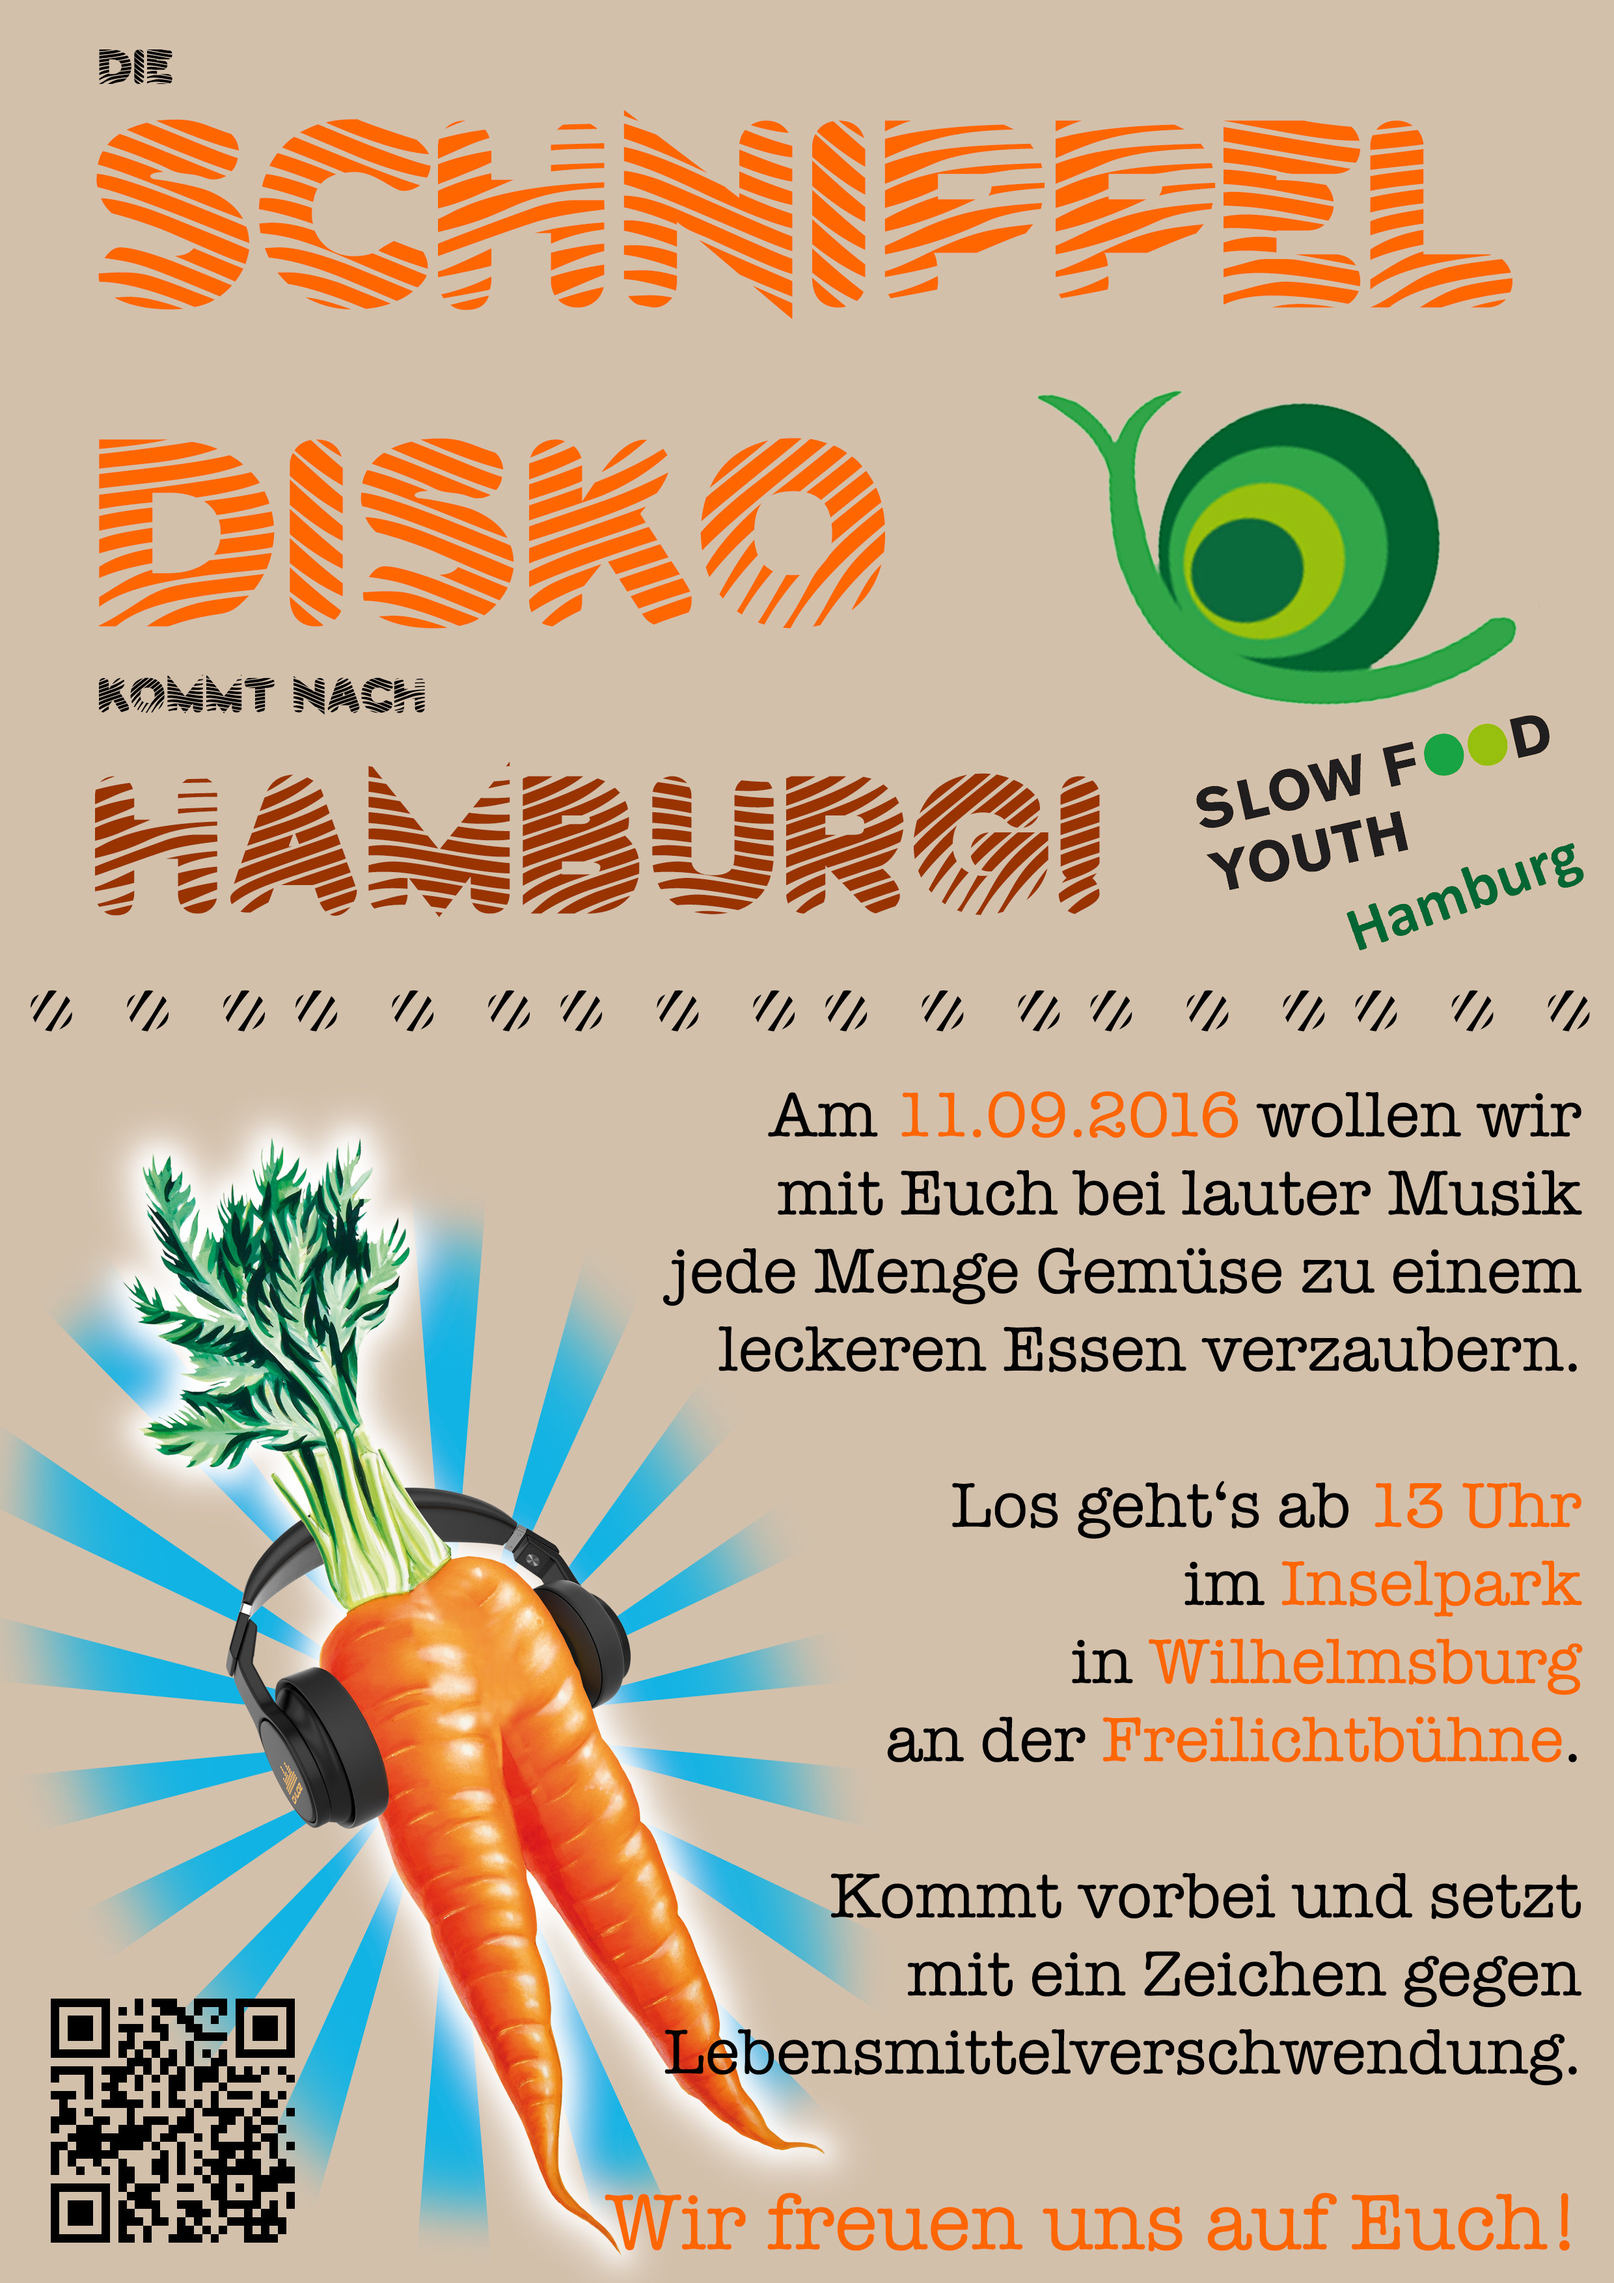
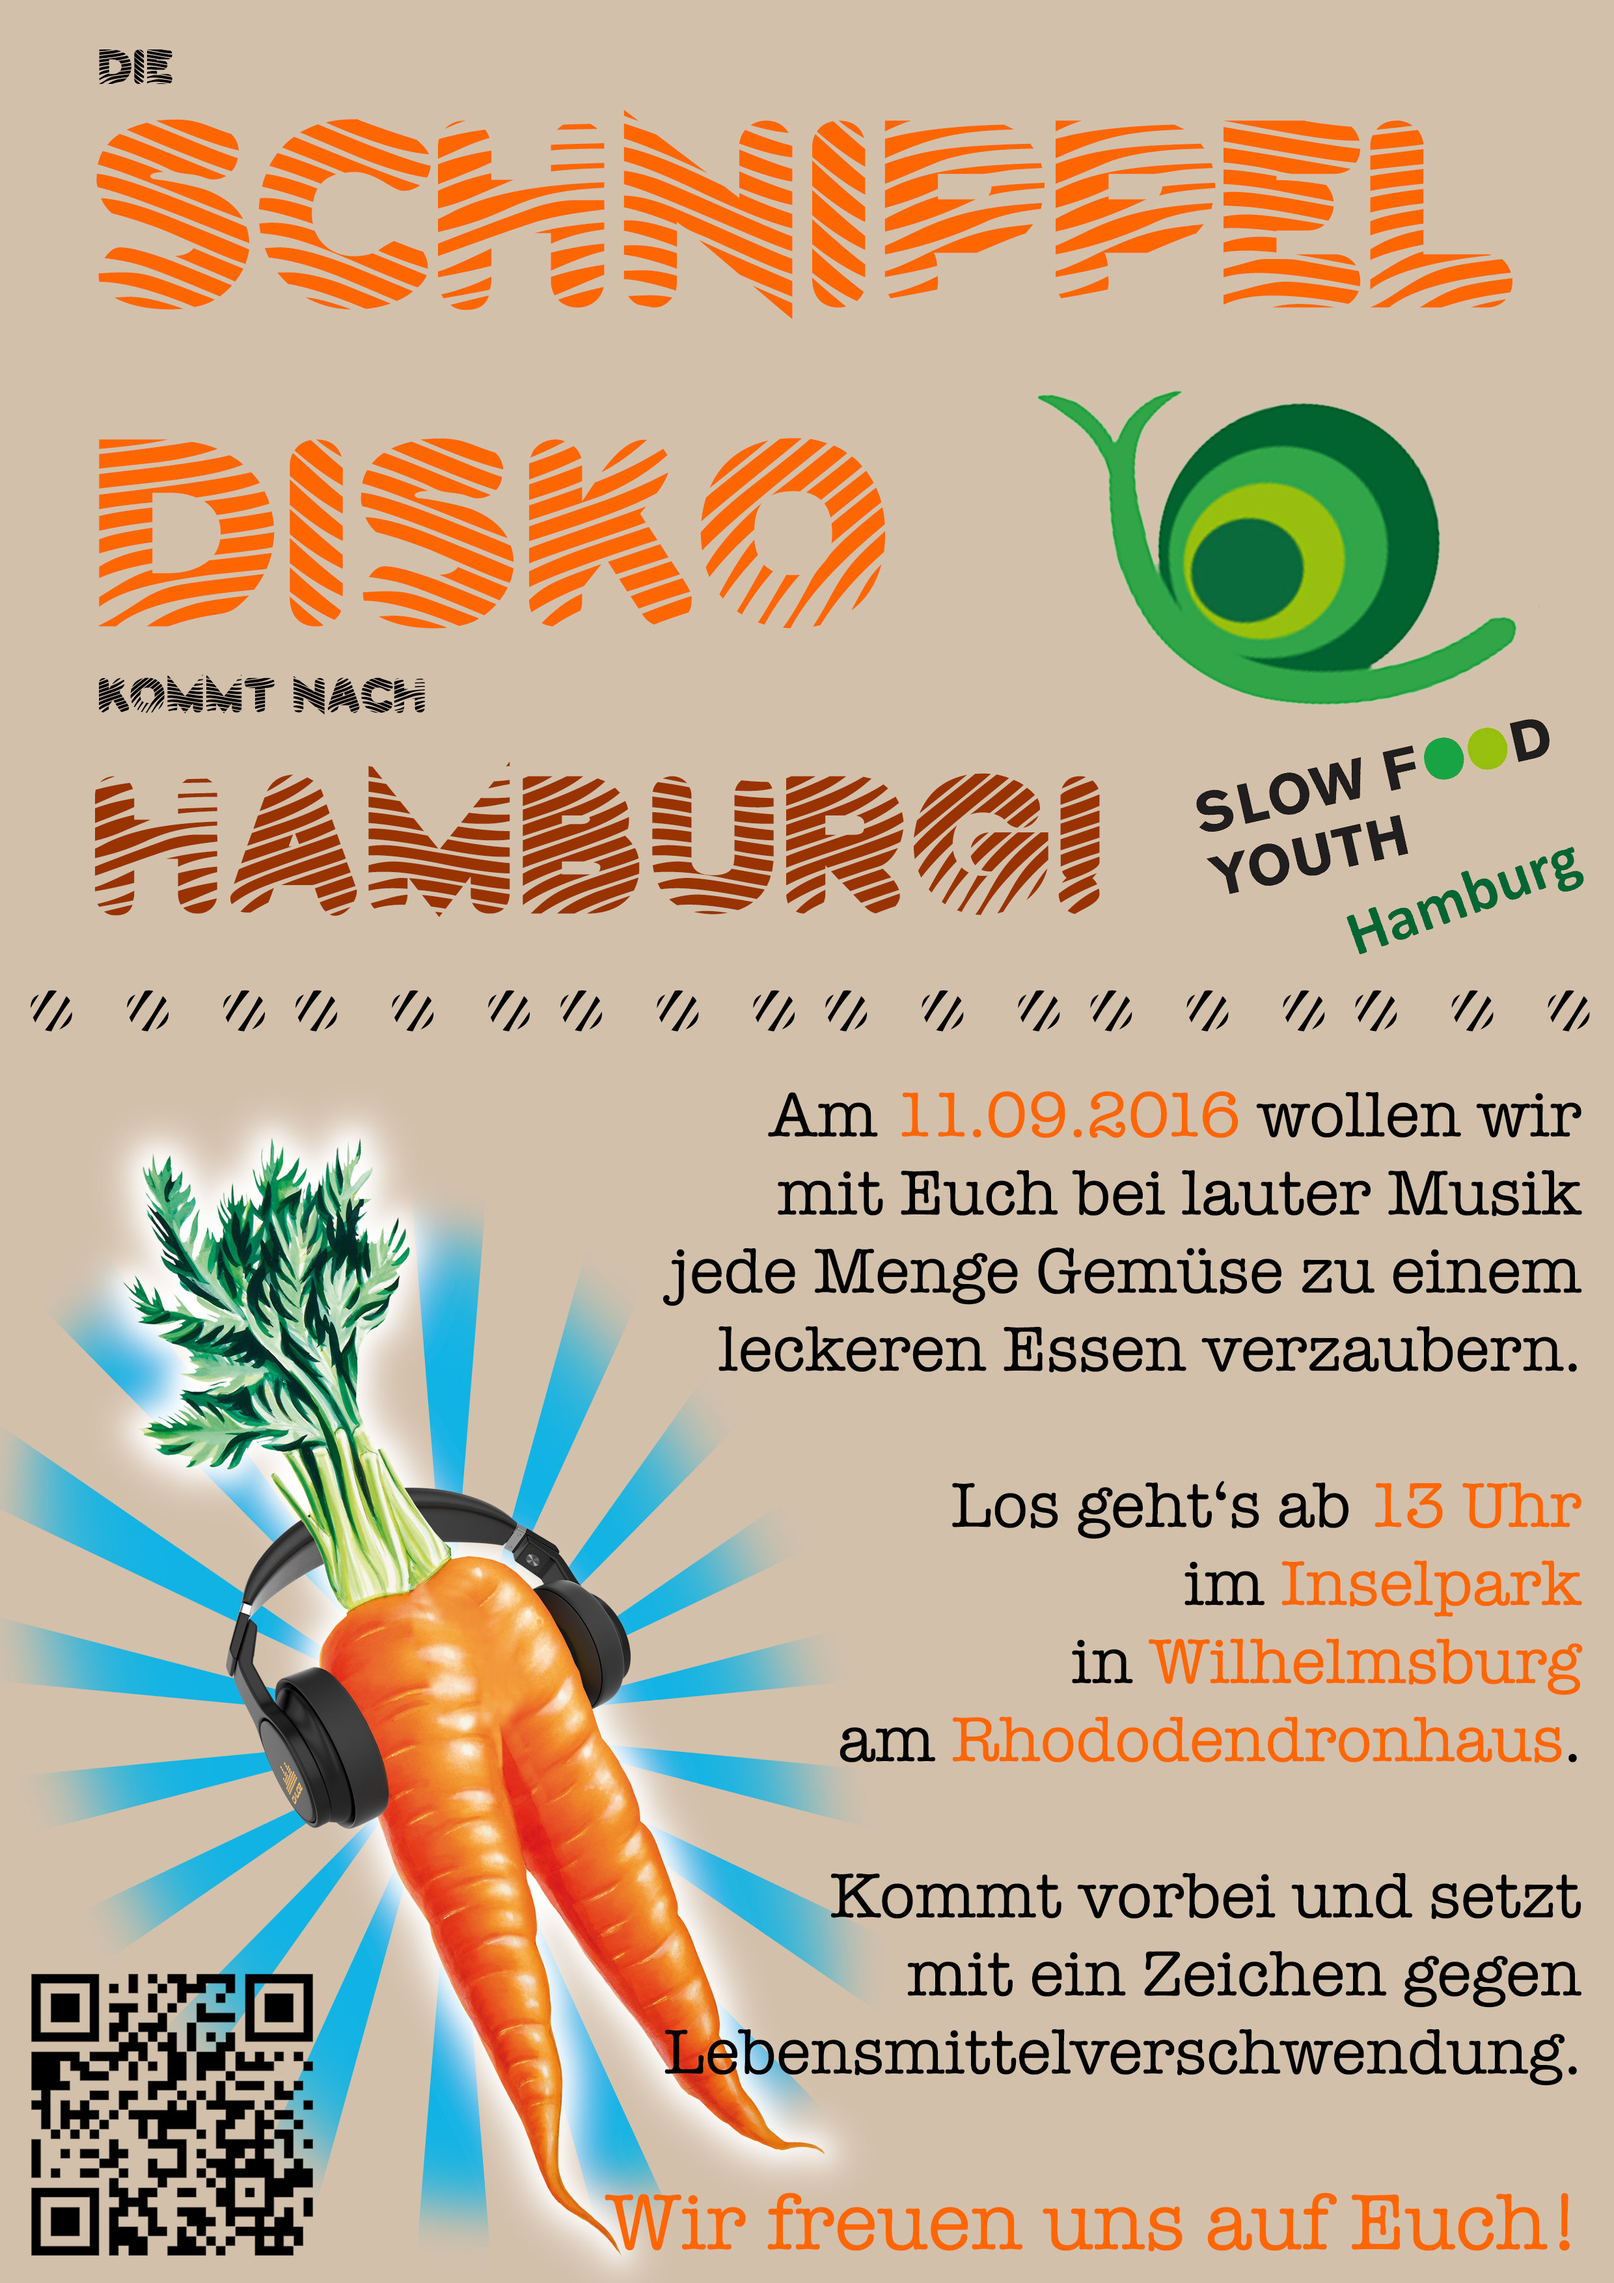
had uploaded wrong flyer

diff --git a/public/artikel/schnippeldisko2016/index.html b/public/artikel/schnippeldisko2016/index.html
@@ -52,6 +52,10 @@
 
 <p><img src="/imgs/schnippeldisko2016/Schnippeldisko_2016_Flyer-web.jpg" alt="Flyer" /></p>
 
+<div class="responsive">
+  <iframe src="https://www.google.com/maps/embed?pb=!1m18!1m12!1m3!1d7983.693070859987!2d9.997009334271272!3d53.49408128332677!2m3!1f0!2f0!3f0!3m2!1i1024!2i768!4f13.1!3m3!1m2!1s0x47b18e21533bf095%3A0x3d917531cbcd1272!2sRhododendrongarten%2C+21109+Hamburg!5e0!3m2!1sen!2sde!4v1473251617744" width="600" height="450" frameborder="0" style="border:0" allowfullscreen></iframe>
+</div>
+
           </div>
           <div class="mdl-layout-spacer"></div>
         </article>

diff --git a/content/Artikel/schnippeldisko2016.md b/content/Artikel/schnippeldisko2016.md
@@ -28,3 +28,7 @@ Deshalb fahren wir zum Hof, sammeln das Knubbelgemüse, besorgen uns einen DJ, l
 <h2 class="text--centered">Deshalb ist es wieder so weit!</h2>
 
 ![Flyer](/imgs/schnippeldisko2016/Schnippeldisko_2016_Flyer-web.jpg)
+
+<div class="responsive">
+  <iframe src="https://www.google.com/maps/embed?pb=!1m18!1m12!1m3!1d7983.693070859987!2d9.997009334271272!3d53.49408128332677!2m3!1f0!2f0!3f0!3m2!1i1024!2i768!4f13.1!3m3!1m2!1s0x47b18e21533bf095%3A0x3d917531cbcd1272!2sRhododendrongarten%2C+21109+Hamburg!5e0!3m2!1sen!2sde!4v1473251617744" width="600" height="450" frameborder="0" style="border:0" allowfullscreen></iframe>
+</div>
